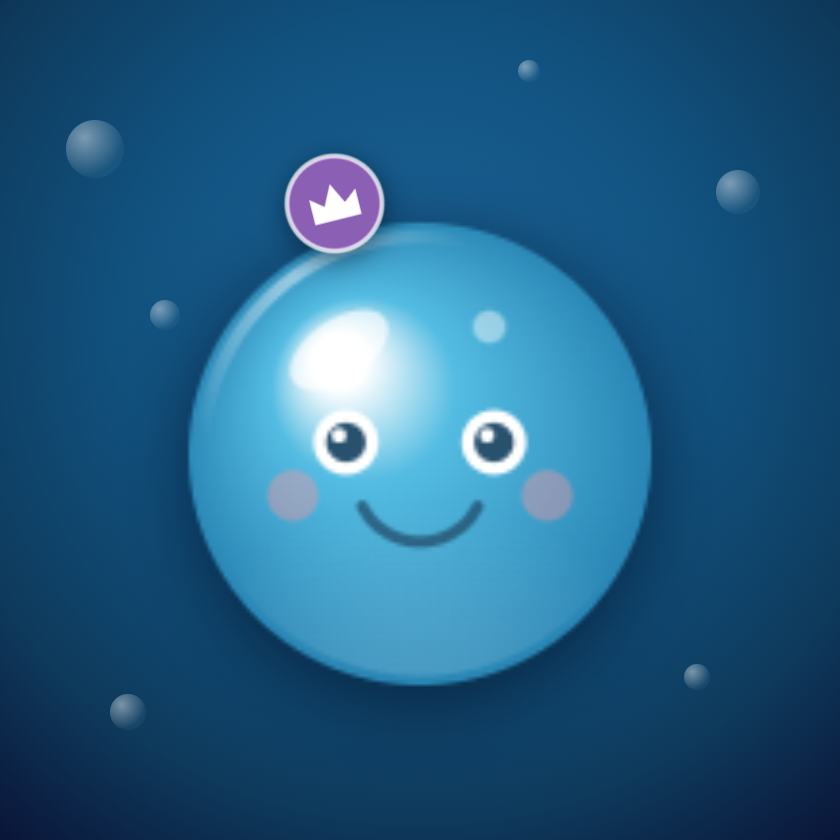
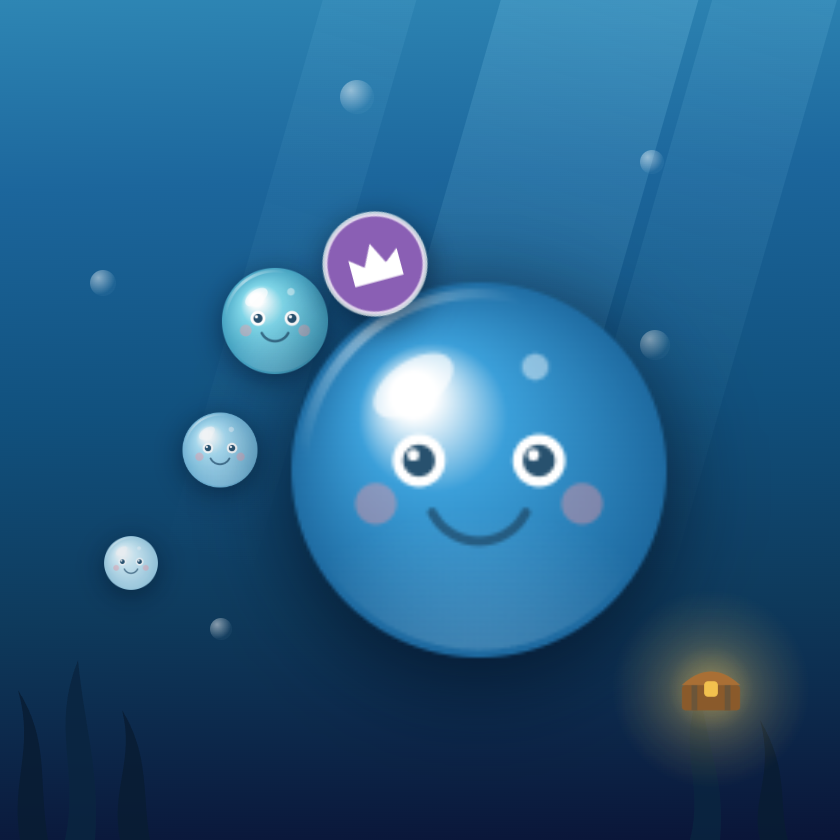
docs: 头像 v3 叙事满版——小水滴螺旋汇入戴冠大水滴(合成链故事)，光柱/海草剪影/宝箱微光填满画面，840+144 同步

diff --git a/test/avatar.js b/test/avatar.js
@@ -1,4 +1,4 @@
-// 小程序头像生成 v2：满版构图——笑脸水滴撑满画面 + 头戴深渊王座皇冠
+// 小程序头像生成 v3：满版海底叙事——戴冠大水滴 + 小水滴螺旋汇入 + 光柱/海草/宝箱
 const { chromium } = require('playwright-core');
 const path = require('path');
 const fs = require('fs');
@@ -7,31 +7,66 @@ const html = `<!DOCTYPE html>
 <html><head><meta charset="UTF-8"><style>
   * { margin:0; padding:0; box-sizing:border-box; }
   body { width:840px; height:840px; overflow:hidden; position:relative;
-    background:radial-gradient(circle at 50% 38%, #1C669C 0%, #11517E 45%, #0E3A5C 75%, #0A1538 100%); }
+    background:linear-gradient(178deg,#2E86B4 0%,#1C669C 22%,#11517E 48%,#0E3A5C 72%,#0A1538 100%); }
+  /* 顶部光柱 */
+  .beam { position:absolute; top:-60px; height:640px; transform:rotate(16deg);
+    background:linear-gradient(180deg,rgba(140,215,245,.22),rgba(140,215,245,0)); }
   .bub { position:absolute; border-radius:50%;
-    background:radial-gradient(circle at 32% 30%, rgba(255,255,255,.45), rgba(174,224,244,.06) 68%); }
-  /* 主角：笑脸水滴撑满（宽约 88%，底部微微出画更有张力） */
-  .drop { position:absolute; left:50%; top:54%; width:740px; height:740px;
-    transform:translate(-50%,-50%); filter:drop-shadow(0 16px 40px rgba(0,10,30,.65)); }
-  /* 皇冠：扣在水滴头顶左上（球面高光位），随球体微倾 */
-  .crown { position:absolute; left:50%; top:14%; width:190px; height:190px;
-    transform:translate(-95%,-5%) rotate(-14deg);
-    filter:drop-shadow(0 6px 14px rgba(0,10,30,.55)); }
+    background:radial-gradient(circle at 32% 30%, rgba(255,255,255,.5), rgba(174,224,244,.05) 66%); }
+  /* 底部海草剪影 */
+  .weed { position:absolute; bottom:0; opacity:.85; }
+  /* 主角：戴冠大水滴，偏右下坐镇 */
+  .drop { position:absolute; left:57%; top:56%; width:600px; height:600px;
+    transform:translate(-50%,-50%); filter:drop-shadow(0 20px 46px rgba(0,8,25,.7)); }
+  .crown { position:absolute; left:57%; top:21%; width:200px; height:200px;
+    transform:translate(-102%,-6%) rotate(-15deg);
+    filter:drop-shadow(0 8px 16px rgba(0,8,25,.6)); }
+  /* 小水滴螺旋汇入（合成链叙事：左下→上方绕入大滴） */
+  .s { position:absolute; filter:drop-shadow(0 6px 14px rgba(0,8,25,.5)); }
+  /* 宝箱微光 */
+  .chest { position:absolute; right:74px; bottom:96px; width:110px; height:110px;
+    filter:drop-shadow(0 0 26px rgba(255,208,96,.55)); }
+  .glow { position:absolute; border-radius:50%;
+    background:radial-gradient(circle,rgba(255,208,96,.28),rgba(255,208,96,0) 70%); }
 </style></head>
 <body>
-  <div class="bub" style="left:66px;top:120px;width:58px;height:58px"></div>
-  <div class="bub" style="left:150px;top:300px;width:30px;height:30px"></div>
-  <div class="bub" style="right:80px;top:170px;width:44px;height:44px"></div>
-  <div class="bub" style="right:130px;bottom:150px;width:26px;height:26px"></div>
-  <div class="bub" style="left:110px;bottom:110px;width:36px;height:36px"></div>
-  <div class="bub" style="right:300px;top:60px;width:22px;height:22px"></div>
+  <div class="beam" style="left:430px;width:190px"></div>
+  <div class="beam" style="left:640px;width:120px;opacity:.65"></div>
+  <div class="beam" style="left:250px;width:90px;opacity:.45"></div>
 
-  <img class="drop" src="tier3.png">
+  <!-- 海草剪影（左右两丛，曲线简单干净） -->
+  <svg class="weed" style="left:-10px" width="240" height="210" viewBox="0 0 240 210">
+    <path d="M30 210 C20 150 45 120 28 60 C60 110 48 150 58 210 Z" fill="#081C33"/>
+    <path d="M75 210 C90 140 60 100 88 30 C95 100 110 140 105 210 Z" fill="#0A2540"/>
+    <path d="M130 210 C120 160 145 130 132 80 C160 125 152 165 160 210 Z" fill="#081C33"/>
+  </svg>
+  <svg class="weed" style="right:-10px" width="200" height="160" viewBox="0 0 200 160">
+    <path d="M40 160 C55 100 25 70 50 10 C60 80 75 100 70 160 Z" fill="#0A2540"/>
+    <path d="M110 160 C100 120 125 95 110 40 C140 90 128 125 138 160 Z" fill="#081C33"/>
+  </svg>
+
+  <div class="bub" style="left:340px;top:80px;width:34px;height:34px"></div>
+  <div class="bub" style="left:640px;top:150px;width:24px;height:24px"></div>
+  <div class="bub" style="left:90px;top:270px;width:26px;height:26px"></div>
+  <div class="bub" style="right:170px;top:330px;width:30px;height:30px"></div>
+  <div class="bub" style="left:210px;bottom:200px;width:22px;height:22px"></div>
+
+  <!-- 小水滴螺旋汇入：由远及近排成弧线 -->
+  <img class="s" src="tier0.png" style="left:88px;top:520px;width:86px;height:86px;opacity:.9">
+  <img class="s" src="tier1.png" style="left:160px;top:390px;width:120px;height:120px;opacity:.95">
+  <img class="s" src="tier2.png" style="left:190px;top:236px;width:170px;height:170px">
+
+  <!-- 主角与王冠 -->
+  <img class="drop" src="tier4.png">
   <img class="crown" src="sea7.png">
+
+  <!-- 宝箱：右下角带光晕的点睛 -->
+  <div class="glow" style="right:29px;bottom:51px;width:200px;height:200px"></div>
+  <img class="chest" src="chest.png">
 </body></html>`;
 
 (async () => {
-  const tmp = path.join(__dirname, 'icons', '_avatar2.html');
+  const tmp = path.join(__dirname, 'icons', '_avatar3.html');
   fs.writeFileSync(tmp, html);
 
   const browser = await chromium.launch({ channel: 'msedge', headless: true });
@@ -40,12 +75,12 @@ const html = `<!DOCTYPE html>
   await page.waitForTimeout(600);
   await page.screenshot({ path: path.join(__dirname, '..', '头像_小程序840.png') });
 
-  // 144 方形版 + 圆形裁切预览：加载刚生成的 840 成品图重采样
+  // 144 方形 + 圆形裁切预览
   const src = path.join(__dirname, '..', '头像_小程序840.png');
   const p2 = await browser.newPage({ viewport: { width: 300, height: 300 } });
   await p2.goto('file:///' + src.replace(/\\/g, '/'));
   await p2.evaluate(() => { const img = document.querySelector('img'); return new Promise(r => img.complete ? r() : img.onload = r); });
-  const dataURLs = await p2.evaluate(() => {
+  const out = await p2.evaluate(() => {
     const img = document.querySelector('img');
     const mk = round => {
       const cv = document.createElement('canvas'); cv.width = 144; cv.height = 144;
@@ -57,10 +92,10 @@ const html = `<!DOCTYPE html>
     };
     return { sq: mk(false), round: mk(true) };
   });
-  fs.writeFileSync(path.join(__dirname, '..', '头像_小程序144.png'), Buffer.from(dataURLs.sq.split(',')[1], 'base64'));
-  fs.writeFileSync(path.join(__dirname, '_avatar_round.png'), Buffer.from(dataURLs.round.split(',')[1], 'base64'));
+  fs.writeFileSync(path.join(__dirname, '..', '头像_小程序144.png'), Buffer.from(out.sq.split(',')[1], 'base64'));
+  fs.writeFileSync(path.join(__dirname, '_avatar_round.png'), Buffer.from(out.round.split(',')[1], 'base64'));
 
   await browser.close();
   fs.unlinkSync(tmp);
-  console.log('AVATAR V2 OK');
+  console.log('AVATAR V3 OK');
 })().catch(e => { console.error('FATAL', e); process.exit(1); });
